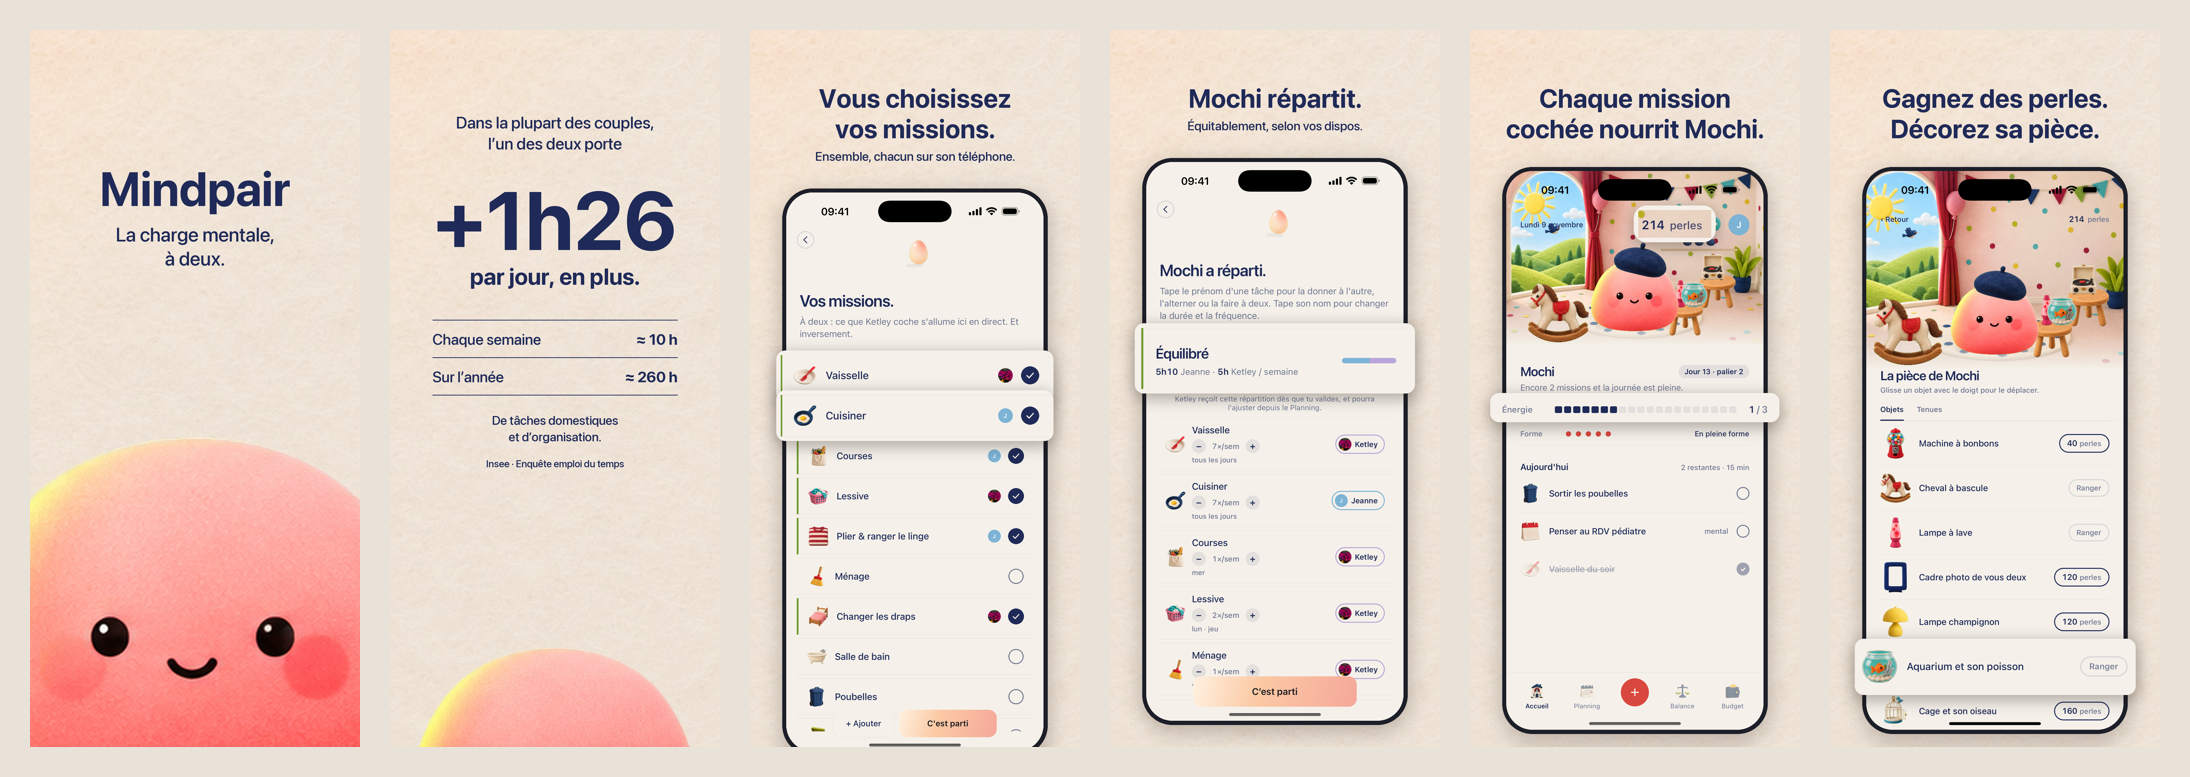
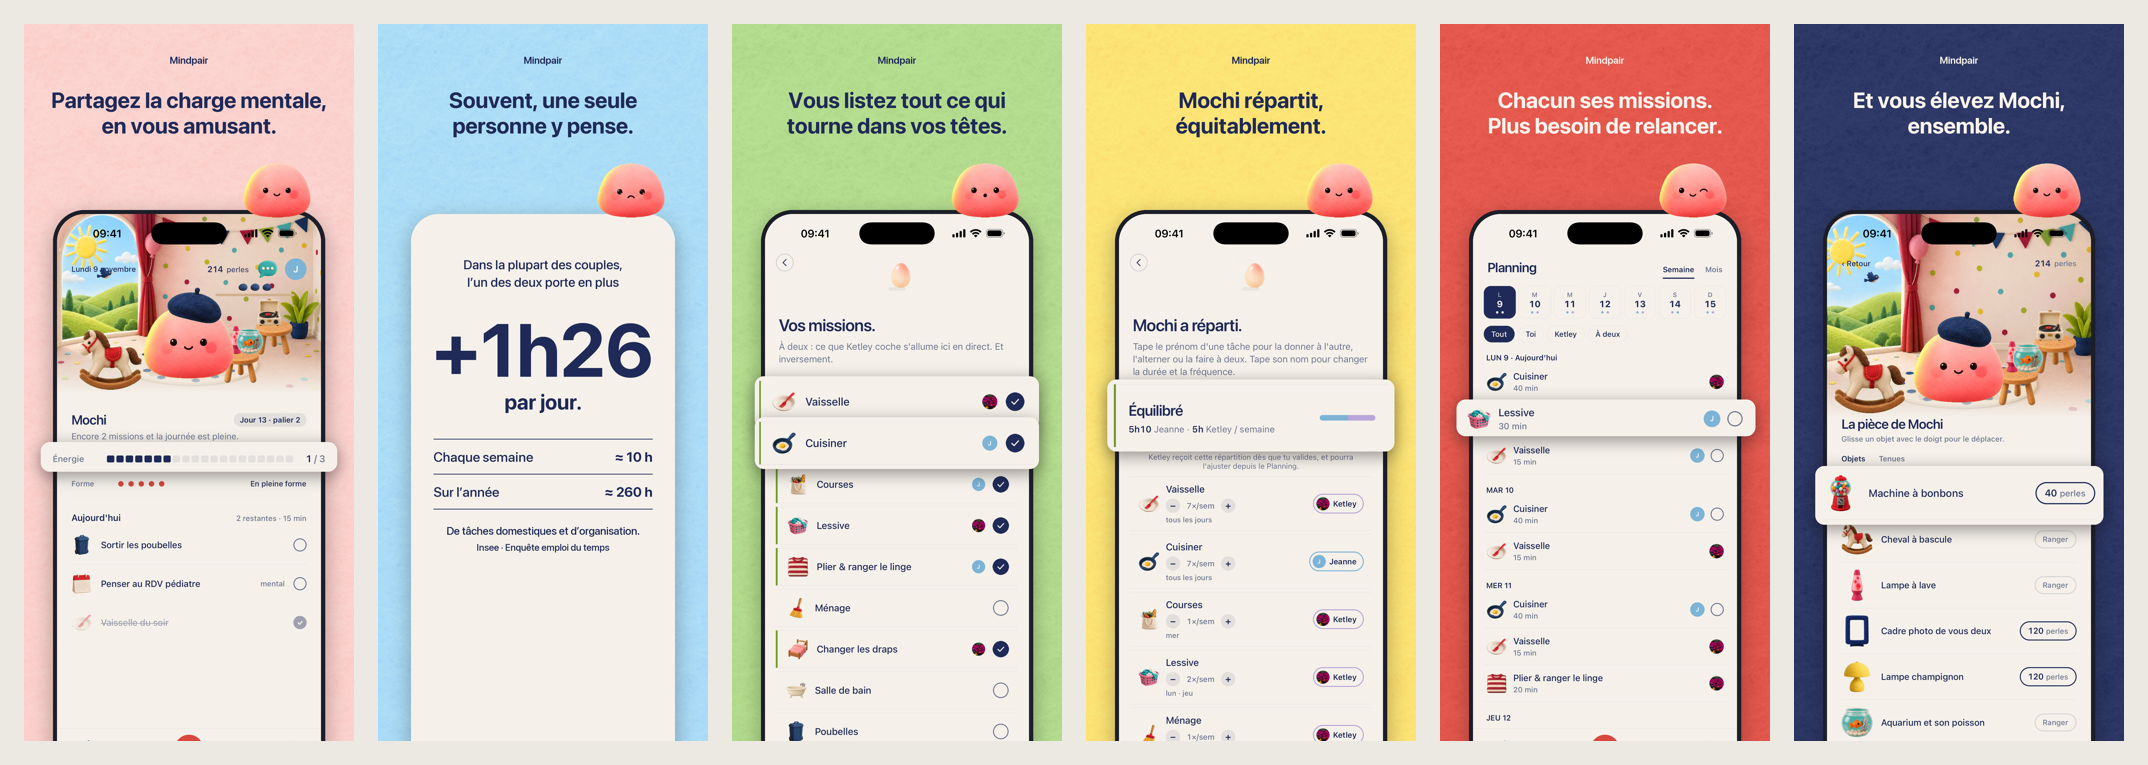
Captures App Store v2 : histoire en 6 écrans, grille fixe, couleurs de la pièce

diff --git a/scripts/captures-app-store.py b/scripts/captures-app-store.py
@@ -1,30 +1,36 @@
+# Captures App Store v2 (9 nov 2026) : une grille fixe (titre au même endroit, téléphone même taille / même hauteur),
+# une couleur franche de la pièce de Mochi par écran, Mochi qui réagit au titre, un élément qui ressort du téléphone.
+# Captures brutes : design/app-store/brut/ (simulateur iPhone 16 Pro Max, Metro avec EXPO_PUBLIC_CAPTURE=1).
 from PIL import Image, ImageDraw, ImageFont, ImageFilter
 M='/Users/jeannecazalot/mochi/'; B=M+'design/app-store/brut/'; O=M+'design/app-store/'
-W,H=1320,2868; INK=(31,42,88); CREAM=(0xF3,0xEA,0xDF)
+W,H=1320,2868; INK=(31,42,88); CREAM=(250,244,236)
 SF='/System/Library/Fonts/SFNS.ttf'
+TITLE_Y=250; TITLES=['Partagez la charge mentale,','en vous amusant.','Souvent, une seule','personne y pense.','Vous listez tout ce qui','tourne dans vos t\u00eates.','Mochi r\u00e9partit,','\u00e9quitablement.','Chacun ses missions.','Plus besoin de relancer.','Et vous \u00e9levez Mochi,','ensemble.']; PHONE_Y=760; PHONE_W=int(W*0.80); MOCHI_W=270
 def font(sz,w):
     f=ImageFont.truetype(SF,sz); f.set_variation_by_name(w); return f
-def bg():
-    base=Image.new('RGB',(W,H),CREAM); felt=Image.open(M+'assets/splash/feutre.jpg').convert('RGB').resize((H,H))
-    lay=base.copy(); lay.paste(felt,((W-H)//2,0)); return Image.blend(base,lay,0.55).convert('RGBA')
-def text_c(d,y,lines,f,fill,lh):
+_d=ImageDraw.Draw(Image.new('RGB',(10,10))); TITLE_SZ=104
+while max(_d.textlength(l,font=font(TITLE_SZ,'Bold')) for l in TITLES)>W-200: TITLE_SZ-=2  # une seule taille pour les six titres
+FELT=Image.open(M+'assets/splash/feutre.jpg').convert('L').resize((H,H)).crop(((H-W)//2,0,(H-W)//2+W,H))
+def bg(col):
+    base=Image.new('RGB',(W,H),col)
+    # grain de feutre : on module la couleur par la texture (la DA « feutre mat »)
+    tex=FELT.point(lambda v: int(128+(v-200)*0.9))
+    return Image.blend(base,Image.merge('RGB',[Image.blend(Image.new('L',(W,H),c),tex.point(lambda v,c=c: max(0,min(255,c+(v-128)))),1) for c in col]),0.6).convert('RGBA')
+def title(im,lines,col):
+    d=ImageDraw.Draw(im); sz=TITLE_SZ
+    f=font(sz,'Bold'); y=TITLE_Y
     for l in lines:
-        w=d.textlength(l,font=f); d.text(((W-w)/2,y),l,font=f,fill=fill); y+=lh
-    return y
-def shadow(im,box,r,a=70,blur=40,dy=24):
+        w=d.textlength(l,font=f); d.text(((W-w)/2,y),l,font=f,fill=col); y+=int(sz*1.16)
+    fw=font(40,'Semibold'); w=d.textlength('Mindpair',font=fw); d.text(((W-w)/2,120),'Mindpair',font=fw,fill=col+(150,))
+def shadow(im,box,r,a=80,blur=40,dy=24):
     sh=Image.new('RGBA',im.size,(0,0,0,0)); x0,y0,x1,y1=box
-    ImageDraw.Draw(sh).rounded_rectangle((x0,y0+dy,x1,y1+dy),r,fill=(70,45,30,a))
+    ImageDraw.Draw(sh).rounded_rectangle((x0,y0+dy,x1,y1+dy),r,fill=(40,25,30,a))
     return Image.alpha_composite(im,sh.filter(ImageFilter.GaussianBlur(blur)))
 def rounded(img,r):
     m=Image.new('L',img.size,0); ImageDraw.Draw(m).rounded_rectangle((0,0,img.width-1,img.height-1),r,fill=255); return m
-def header(im,title,sub=None,y=210):
-    d=ImageDraw.Draw(im)
-    y=text_c(d,y,title,font(104,'Bold'),INK,122)
-    if sub: y=text_c(d,y+20,sub,font(50,'Medium'),INK+(165,),66)
-    return y
-def phone(im,shot,y,scale=0.78,crop_bottom=None):
-    s=Image.open(B+shot).convert('RGBA'); pw=int(W*scale); ph=int(pw*s.height/s.width); s=s.resize((pw,ph),Image.LANCZOS)
-    px=(W-pw)//2; py=y; r=104
+def phone(im,shot):
+    s=Image.open(B+shot).convert('RGBA'); pw=PHONE_W; ph=int(pw*s.height/s.width); s=s.resize((pw,ph),Image.LANCZOS)
+    px=(W-pw)//2; py=PHONE_Y; r=110
     im=shadow(im,(px-16,py-16,px+pw+16,py+ph+16),r+16)
     bz=Image.new('RGBA',im.size,(0,0,0,0)); ImageDraw.Draw(bz).rounded_rectangle((px-16,py-16,px+pw+16,py+ph+16),r+16,fill=(28,30,40,255))
     im=Image.alpha_composite(im,bz); im.paste(s,(px,py),rounded(s,r))
@@ -35,64 +41,61 @@ def pop(im,shot,box,geo,zoom=1.14,r=36):
     pad=18; card=Image.new('RGBA',(c.width+2*pad,c.height+2*pad),(0xF5,0xF1,0xEA,255)); card.paste(c,(pad,pad),c)
     cx=px+(box[0]+box[2])/2*sc; cy=py+(box[1]+box[3])/2*sc
     x=int(cx-card.width/2); y=int(cy-card.height/2)
-    im=shadow(im,(x,y,x+card.width,y+card.height),r,a=95,blur=30,dy=16)
+    im=shadow(im,(x,y,x+card.width,y+card.height),r,a=110,blur=30,dy=16)
     im.paste(card,(x,y),rounded(card,r)); return im
-def mochi(face,w):
-    m=Image.open(M+f'assets/splash/mochi-{face}.png').convert('RGBA'); return m.resize((w,int(w*m.height/m.width)),Image.LANCZOS)
+def mochi(im,face):
+    # Mochi assis sur le bord haut du téléphone, à droite — même place sur tous les écrans
+    m=Image.open((M+f'assets/splash/mochi-{face}.png') if face in ('happy','neutral','sleeping') else (B+f'mochi-{face}.png')).convert('RGBA'); m=m.resize((MOCHI_W,int(MOCHI_W*m.height/m.width)),Image.LANCZOS)
+    x=(W+PHONE_W)//2-MOCHI_W-40; y=PHONE_Y-16-m.height+30
+    im.alpha_composite(m,(x,y)); return im
 
-# 1 · branding
-im=bg(); d=ImageDraw.Draw(im)
-text_c(d,520,['Mindpair'],font(190,'Bold'),INK,0)
-text_c(d,770,['La charge mentale,','à deux.'],font(78,'Medium'),INK+(190,),96)
-m=mochi('happy',int(W*1.5)); im.alpha_composite(m,((W-m.width)//2,H-int(m.height*0.78)))
-im.convert('RGB').save(O+'01-mindpair.png')
+ROSE=(246,196,192); CIEL=(158,207,236); VERT=(166,206,128); JAUNE=(248,214,104); ROUGE=(214,74,64); NUIT=(31,42,88)
 
-# 2 · Insee
-im=bg(); d=ImageDraw.Draw(im)
-text_c(d,330,['Dans la plupart des couples,','l’un des deux porte'],font(66,'Medium'),INK+(190,),84)
-text_c(d,560,['+1h26'],font(330,'Bold'),INK,0)
-text_c(d,930,['par jour, en plus.'],font(92,'Bold'),INK,0)
-y=1160
-rows=[('Chaque semaine','≈ 10 h'),('Sur l’année','≈ 260 h')]
-fr=font(60,'Medium'); fv=font(60,'Bold')
-for t,v in rows:
-    d.line((170,y,W-170,y),fill=INK+(40,),width=3)
-    d.text((170,y+40),t,font=fr,fill=INK+(190,)); w=d.textlength(v,font=fv); d.text((W-170-w,y+40),v,font=fv,fill=INK); y+=150
-d.line((170,y,W-170,y),fill=INK+(40,),width=3)
-text_c(d,y+70,['De tâches domestiques','et d’organisation.'],font(50,'Medium'),INK+(150,),66)
-text_c(d,y+250,['Insee · Enquête emploi du temps'],font(40,'Medium'),INK+(120,),0)
-m=mochi('neutral',int(W*0.9)); im.alpha_composite(m,((W-m.width)//2,H-int(m.height*0.42)))
-im.convert('RGB').save(O+'02-insee.png')
+# 1 · la promesse
+im=bg(ROSE); title(im,['Partagez la charge mentale,','en vous amusant.'],INK)
+im,g=phone(im,'accueil.png'); im=pop(im,'accueil.png',(40,1170,1280,1260),g,zoom=1.16); im=mochi(im,'happy')
+im.convert('RGB').save(O+'01-promesse.png')
 
-# 3 · choix à deux
-im=bg(); y=header(im,['Vous choisissez','vos missions.'],['Ensemble, chacun sur son téléphone.'])
-im,g=phone(im,'taches.png',y+110)
-im=pop(im,'taches.png',(56,848,1264,1040),g)
-im=pop(im,'taches.png',(56,1052,1264,1240),g)
-im.convert('RGB').save(O+'03-choix.png')
+# 2 · le problème : une « carte » à la place du téléphone, même gabarit
+im=bg(CIEL); title(im,['Souvent, une seule','personne y pense.'],INK)
+px=(W-PHONE_W)//2; py=PHONE_Y; im=shadow(im,(px,py,px+PHONE_W,H+200),110)
+card=Image.new('RGBA',(PHONE_W,H-py+200),(0xF5,0xF1,0xEA,255)); im.paste(card,(px,py),rounded(card,110))
+d=ImageDraw.Draw(im)
+def ctext(y,t,f,fill):
+    w=d.textlength(t,font=f); d.text(((W-w)/2,y),t,font=f,fill=fill)
+ctext(py+170,'Dans la plupart des couples,',font(52,'Medium'),INK+(170,)); ctext(py+240,'l’un des deux porte en plus',font(52,'Medium'),INK+(170,))
+ctext(py+360,'+1h26',font(300,'Bold'),INK); ctext(py+700,'par jour.',font(84,'Bold'),INK)
+y=py+900; fr=font(54,'Medium'); fv=font(54,'Bold')
+for t,v in [('Chaque semaine','≈ 10 h'),('Sur l’année','≈ 260 h')]:
+    d.line((px+90,y,px+PHONE_W-90,y),fill=INK+(40,),width=3); d.text((px+90,y+38),t,font=fr,fill=INK+(180,))
+    w=d.textlength(v,font=fv); d.text((px+PHONE_W-90-w,y+38),v,font=fv,fill=INK); y+=140
+d.line((px+90,y,px+PHONE_W-90,y),fill=INK+(40,),width=3)
+ctext(y+60,'De tâches domestiques et d’organisation.',font(44,'Medium'),INK+(150,))
+ctext(y+130,'Insee · Enquête emploi du temps',font(38,'Medium'),INK+(120,))
+im=mochi(im,'sad'); im.convert('RGB').save(O+'02-probleme.png')
 
-# 4 · répartition
-im=bg(); y=header(im,['Mochi répartit.'],['Équitablement, selon vos dispos.'])
-im,g=phone(im,'dispatch.png',y+110)
-im=pop(im,'dispatch.png',(60,872,1260,1144),g,zoom=1.16)
-im.convert('RGB').save(O+'04-repartition.png')
+# 3 · vous listez à deux
+im=bg(VERT); title(im,['Vous listez tout ce qui','tourne dans vos têtes.'],INK)
+im,g=phone(im,'taches.png'); im=pop(im,'taches.png',(56,848,1264,1040),g); im=pop(im,'taches.png',(56,1052,1264,1240),g); im=mochi(im,'surprised')
+im.convert('RGB').save(O+'03-lister.png')
 
-# 5 · jeu : l'accueil
-im=bg(); y=header(im,['Chaque mission','cochée nourrit Mochi.'])
-im,g=phone(im,'accueil.png',y+110)
-im=pop(im,'accueil.png',(40,1170,1280,1260),g,zoom=1.16)
-im=pop(im,'accueil.png',(740,225,990,320),g,zoom=1.5,r=50)
-im.convert('RGB').save(O+'05-jeu.png')
+# 4 · Mochi répartit
+im=bg(JAUNE); title(im,['Mochi répartit,','équitablement.'],INK)
+im,g=phone(im,'dispatch.png'); im=pop(im,'dispatch.png',(60,872,1260,1144),g,zoom=1.16); im=mochi(im,'happy')
+im.convert('RGB').save(O+'04-repartir.png')
 
-# 6 · jeu : la pièce
-im=bg(); y=header(im,['Gagnez des perles.','Décorez sa pièce.'])
-im,g=phone(im,'chambre.png',y+110)
-im=pop(im,'chambre.png',(60,2440,1264,2650),g,zoom=1.16)
-im.convert('RGB').save(O+'06-piece.png')
+# 5 · chacun ses missions
+im=bg(ROUGE); title(im,['Chacun ses missions.','Plus besoin de relancer.'],CREAM)
+im,g=phone(im,'planning.png'); im=pop(im,'planning.png',(40,960,1290,1080),g,zoom=1.16); im=mochi(im,'wink')
+im.convert('RGB').save(O+'05-chacun.png')
 
-# planche
-fs=['01-mindpair','02-insee','03-choix','04-repartition','05-jeu','06-piece']
-s=0.25; w,h=int(W*s),int(H*s); g=30
-P=Image.new('RGB',(6*w+7*g,h+2*g),(232,226,216))
-for i,f in enumerate(fs): P.paste(Image.open(O+f+'.png').resize((w,h)),(g+i*(w+g),g))
+# 6 · vous élevez Mochi
+im=bg(NUIT); title(im,['Et vous élevez Mochi,','ensemble.'],CREAM)
+im,g=phone(im,'chambre.png'); im=pop(im,'chambre.png',(60,1300,1264,1515),g,zoom=1.16); im=mochi(im,'happy')
+im.convert('RGB').save(O+'06-mochi.png')
+
+fs=['01-promesse','02-probleme','03-lister','04-repartir','05-chacun','06-mochi']
+s=0.25; w,h=int(W*s),int(H*s); gp=24
+P=Image.new('RGB',(6*w+7*gp,h+2*gp),(236,232,226))
+for i,f in enumerate(fs): P.paste(Image.open(O+f+'.png').resize((w,h)),(gp+i*(w+gp),gp))
 P.save(O+'planche.png')

diff --git a/TODO.md b/TODO.md
@@ -433,3 +433,5 @@ Décisions Jeanne (tableau de bord, 4 nov 2026) : coucher du foyer 22 h (migrati
 9 nov 2026 (soir) — **Ouverture Mindpair** validée par Jeanne (« parfait ») après refs (piste Headspace) : fond crème en feutre, Mochi géant qui monte du bas les yeux fermés, les ouvre et sourit ; « Mindpair » en grand en haut, « La charge mentale, à deux. » dessous. Jouée à chaque lancement à froid par-dessus l'app (`app/_layout.js` → `IntroView` de `app/intro.js`), fondu de sortie à 2,3 s. Splash fixe iOS (`assets/splash-icon.png`) = première image de l'animation → **effectif au prochain build seulement** ; d'ici là, l'ancien splash puis l'animation. Ancien splash B gardé dans `design/icone/splash-B-mindpair-ancien.png`. Vu au simulateur : lancement à froid complet. Rejeté en route : nom en graphique plat (« pas la DNA »), phrase sur la pièce (« pas joli » ×3), point après Mindpair, « mentale » en rouge.
 
 9 nov 2026 (nuit) — **Captures App Store v1** (`design/app-store/01…06`, 1320×2868 = iPhone 6,9", planche `planche.png`) : 1 Mindpair (branding, Mochi qui monte), 2 Insee « +1h26 par jour » (texte, chiffres de l'onboarding), 3 choix à deux, 4 Mochi répartit, 5 mission cochée → Mochi (jeu), 6 perles → pièce (jeu). Vraies captures du simulateur en **mode capture** : Metro lancé avec `EXPO_PUBLIC_CAPTURE=1` (cache le bouton Plan, prénom « Jeanne », Accueil sur un foyer d'exemple), roue Expo masquée par `defaults write io.langora.mochi EXDevMenuShowFloatingActionButton -bool NO`, barre d'état `simctl status_bar override`, `chambre?demo=1`, `taches?demo=1`. Composition : `scripts/captures-app-store.py` (éléments qui ressortent du téléphone, façon Headspace ; refs Finch/Headspace/Gentler/How We Feel dans `design/app-store/refs-app-store.png`). Pas encore envoyées sur App Store Connect.
+
+9 nov 2026 (nuit, v2) — **Captures App Store v2** après retour Jeanne (« pas au même endroit, on ne comprend pas à quoi ça sert, beige triste ») : synthèse validée (« Partagez la charge mentale, en vous amusant » → problème Insee → vous listez → Mochi répartit → chacun ses missions → vous élevez Mochi), grille fixe (mot Mindpair, titre à taille unique, téléphone même taille/hauteur), une couleur franche de la pièce par écran (rose, ciel, vert, jaune, rouge, nuit), Mochi assis sur le téléphone avec une expression qui suit le titre, un élément agrandi à sa place. Fichiers `design/app-store/01-promesse … 06-mochi.png`, script `scripts/captures-app-store.py`.
